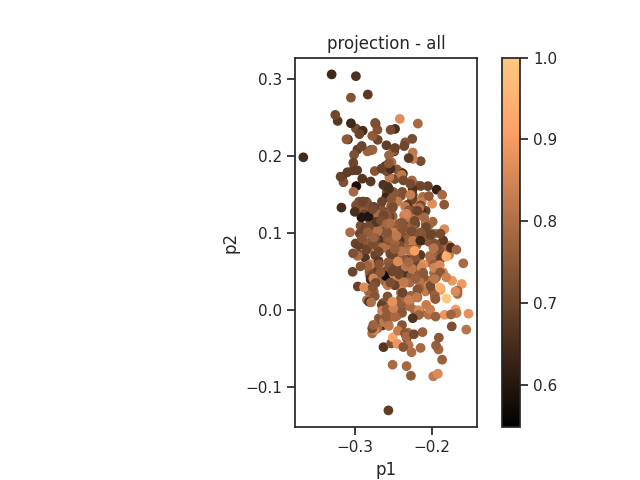
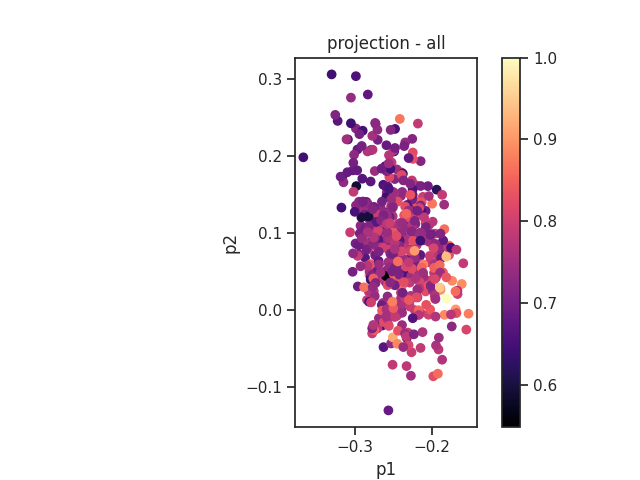
tweaking svd images

diff --git a/grouping_hitters/hitters_svd.py b/grouping_hitters/hitters_svd.py
@@ -115,7 +115,7 @@ plt.savefig('./figs/projection_mean.png')
 
 plt.figure(5)
 fig, ax = plt.subplots()
-sc = ax.scatter(a_all_df[1], a_all_df[2], c=a_all_df['OPS'], cmap='copper')
+sc = ax.scatter(a_all_df[1], a_all_df[2], c=a_all_df['OPS'], cmap='magma')
 fig.colorbar(sc, ax=ax)
 ax.set_aspect('equal')
 plt.title('projection - all')
@@ -125,7 +125,7 @@ plt.savefig('./figs/projection_all_heat.png')
 
 plt.figure(6)
 fig, ax = plt.subplots()
-sc = ax.scatter(a_median_df[1], a_median_df[2], c=a_median_df['OPS'], cmap='copper')
+sc = ax.scatter(a_median_df[1], a_median_df[2], c=a_median_df['OPS'], cmap='magma')
 fig.colorbar(sc, ax=ax)
 ax.set_aspect('equal')
 plt.title('projection - median')
@@ -135,7 +135,7 @@ plt.savefig('./figs/projection_median_heat.png')
 
 plt.figure(7)
 fig, ax = plt.subplots()
-sc = ax.scatter(a_mean_df[1], a_mean_df[2], c=a_mean_df['OPS'], cmap='copper')
+sc = ax.scatter(a_mean_df[1], a_mean_df[2], c=a_mean_df['OPS'], cmap='magma')
 fig.colorbar(sc, ax=ax)
 ax.set_aspect('equal')
 plt.title('projection - median')
